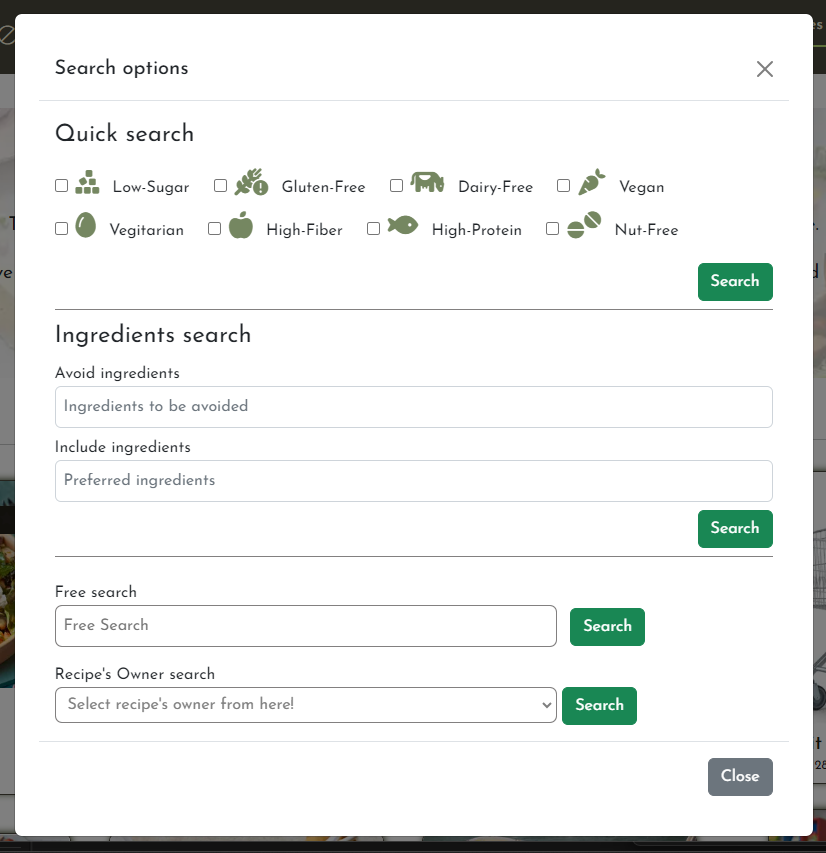
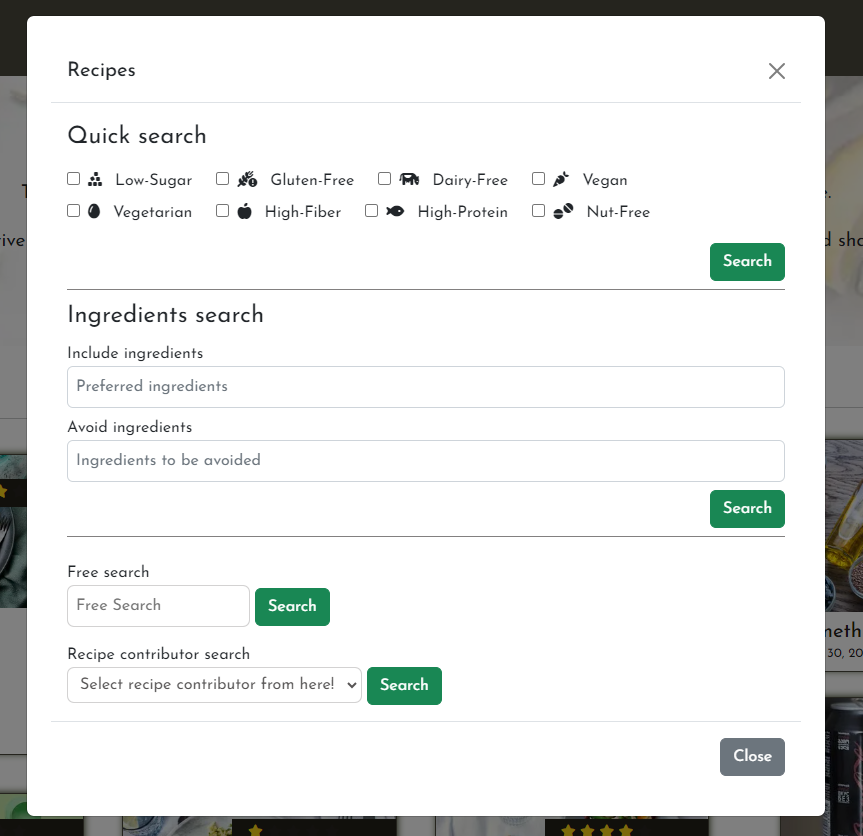
doc: Add Existing Features updates - screenshots and details

diff --git a/templates/includes/header.html b/templates/includes/header.html
@@ -16,23 +16,23 @@
             <!-- Navigation bar -->
             <div class="collapse navbar-collapse" id="navbarNav">
                 <ul class="navbar-nav ms-auto mb-2">
-                    <li class="nav-item">
+                    <li class="nav-item me-2">
                         <a class="nav-link{% if url_name == 'home' %} active" aria-current="page{% endif %}"
                             href="{% url 'home' %}" aria-label="Home (Top-page)" title="Home"><i
                                 class="fa-solid fa-house"></i> Recipes</a>
                     </li>
-                    <li class="nav-item">
+                    <li class="nav-item me-2">
                         <a class="nav-link{% if url_name == 'posts' %} active" aria-current="page{% endif %}"
                             href="{% url 'posts' %}" aria-label="Posts list page" title="Posts"><i
                                 class="fa-solid fa-newspaper"></i> Posts</a>
                     </li>
-                    <li class="nav-item dropdown">
+                    <li class="nav-item dropdown me-2">
                         <a class="nav-link dropdown-toggle" href="#" role="button" data-bs-toggle="dropdown"
                             aria-expanded="false" aria-label="New Create (Recipe or Post)"
                             title="New Create Recipe, Post">
                             <i class="fa-regular fa-square-plus"></i> NEW
                         </a>
-                        <ul class="dropdown-menu">
+                        <ul class="dropdown-menu me-2">
                             <li><a class="dropdown-item{% if url_name == 'add_recipe' %} active"
                                     aria-current="page{% endif %}" href="{% url 'add_recipe' %}"
                                     aria-label="Create Recipe" title="Create Recipe"> Create Recipe</a></li>
@@ -42,19 +42,19 @@
                         </ul>
                     </li>
                     {% if request.user.is_authenticated %}
-                    <li class="nav-item">
+                    <li class="nav-item me-2">
                         <a class="nav-link{% if url_name == 'account_logout' %} active" aria-current="page{% endif %}"
                             href="/accounts/logout" aria-label="Log-out button" title="Log-out"><i
                                 class="fa-solid fa-right-from-bracket"></i>
                             Log-out</a>
                     </li>
                     {% else %}
-                    <li class="nav-item">
+                    <li class="nav-item me-2">
                         <a class="nav-link{% if url_name == 'account_signup' %} active" aria-current="page{% endif %}"
                             href="/accounts/signup" aria-label="Sign-Up button" title="Sign-up"><i
                                 class="fa-solid fa-user-pen"></i> Sign-up</a>
                     </li>
-                    <li class="nav-item">
+                    <li class="nav-item me-2">
                         <a class="nav-link{% if url_name == 'account_login' %} active" aria-current="page{% endif %}"
                             href="/accounts/login" aria-label="Log-in button" title="Log-in"><i
                                 class="fa-solid fa-right-to-bracket"></i>

diff --git a/home/templates/home/index.html b/home/templates/home/index.html
@@ -99,7 +99,7 @@
   <div class="modal-dialog modal-lg">
     <div class="modal-content p-4">
       <div class="modal-header">
-        <h5 class="modal-title">Search options</h5>
+        <h5 class="modal-title">Recipes</h5>
         <button type="button" class="btn-close" data-bs-dismiss="modal" aria-label="Close"></button>
       </div>
       <div class="modal-body">
@@ -170,7 +170,7 @@
   <div class="modal-dialog modal-lg">
     <div class="modal-content p-4">
       <div class="modal-header">
-        <h4 class="modal-title">Post - Search options</h4>
+        <h5 class="modal-title">Posts</h4>
         <button type="button" class="btn-close" data-bs-dismiss="modal" aria-label="Close"></button>
       </div>
       <div class="modal-body">

diff --git a/posts/templates/posts/posts.html b/posts/templates/posts/posts.html
@@ -109,7 +109,7 @@
               placeholder="Include words" aria-label="Include words">
             <label for="avoid-search">Avoid words</label>
             <input id="avoid-search" class="form-control me-2 p-2 mb-2" name="q-avoid" type="search"
-              placeholder="Words to be avoided" aria-label="Words to be avoided">
+              placeholder="Excluded search term e.g. eggs" aria-label="Words to be avoided">
           </fieldset>
           <div class="modal-button pb-2 mb-2">
             <button type="submit" class="btn btn-success" form="words-search">Search</button>

diff --git a/static/css/base.css b/static/css/base.css
@@ -155,10 +155,11 @@ a:active {
 }
 
 #free-word-search,
-#owner-id-search {
+#owner-id-search,
+#post-owner-id-search {
     border-radius: 7px;
-    border: solid 1px var(--star-gray);
-    color: gray;
+    border: solid 1px rgba(170, 168, 168, 0.514);
+    color: rgb(88, 86, 86);
 }
 
 #checkbox-filter i {

diff --git a/staticfiles/css/base.css b/staticfiles/css/base.css
@@ -155,10 +155,11 @@ a:active {
 }
 
 #free-word-search,
-#owner-id-search {
+#owner-id-search,
+#post-owner-id-search {
     border-radius: 7px;
-    border: solid 1px var(--star-gray);
-    color: gray;
+    border: solid 1px rgba(170, 168, 168, 0.514);
+    color: rgb(88, 86, 86);
 }
 
 #checkbox-filter i {

diff --git a/README.md b/README.md
@@ -67,7 +67,7 @@ I hope that these activities will inspire all of us to make better food and life
 ![Database relationship diagram](readme-img/ux-db-diagram.jpg "Database relationship diagram")
 
 #### Wireframes
-This website was originally planned as part of a previous project, but midway through my development my standup teacher advised me that it would be better to make it a standalone project separate from the previous one to avoid confusion. Therefore, I have made some design changes. 
+This website was originally planned as part of a previous project, but midway through my development, my cohort facilitator Lewis advised for me that it would be better to make it a standalone project separate from the previous one to avoid confusion. Therefore, I have made some design & colour changes from this wireframs though I couldn't have time to create another wireframes. 
 
 <details open>
 <summary>For first time visitor - tablet and PC monitor</summary>
@@ -102,45 +102,9 @@ For the site's basic font, I was considering using "Quicksand" for the best read
 
 ## EXISTING FEATURES  
 
-### Top page - Home  
-* Header and navigation - First time visiter  
-![Header and navigation - First time visiter](readme-img/feat-home-header2.png "Header and navigation - First time visiter")   
-* Header and navigation - Authenticated user  
-![Header and navigation - Authenticated user](readme-img/feat-home-header.png "Header and navigation - Authenticated user")   
-
-* Welcome message - First time visiter  
-![ Welcome message - First time visiter](readme-img/feat-home-intro2.png " Welcome message - First time visiter")   
-*  Welcome message - Authenticated user  
-![ Welcome message - Authenticated user](readme-img/feat-home-intro.png " Welcome message - Authenticated user")  
-
-* Home content - Recipes list  
-![ Home content - Recipes list](readme-img/feat-home-content.webp " Home content - Recipes list")   
-
-* Footer  
-![ Footer ](readme-img/feat-home-footer.png " Footer ")  
-
-* Recipes search options modal  
-![ Recipes search options modal ](readme-img/feat-recipesearch.png " Recipes search options modal ")  
-
-### Posts list page  
-* Lead sentense - First time visiter  
-![ Lead sentense - First time visiter](readme-img/feat-posts-intro.webp " Lead sentense - First time visiter")   
-
-* Lead sentense - Authenticated user  
-![ Lead sentense - Authenticated user](readme-img/feat-posts-intro2.webp " Lead sentense - Authenticated user")  
-
-* Posts list - Approved  
-![ Posts list - Approved](readme-img/feat-posts-content1.png " Posts list - Approved")   
-
-* Posts list - Waiting to be approved  
-![ Posts list - Waiting to be approved](readme-img/feat-posts-content2.png " Posts list - Waiting to be approved")  
-
-* Posts search options modal  
-![ Posts search options modal ](readme-img/feat-postssearch.png " Posts search options modal ")  
-
 ### Authentication pages  
 
-* Sign-up  
+* Sign-up - AllAuth default settings and validations are applied   
 ![ Sign-up ](readme-img/feat-a-signup.png " Sign-up ")  
 
 * Log-in  
@@ -149,16 +113,71 @@ For the site's basic font, I was considering using "Quicksand" for the best read
 * Log-out  
 ![ Log-out ](readme-img/feat-a-logout.png " Log-out ")  
 
+### Top page - Home  
+* Header and navigation - Unauthenticated user can see Sign-up and Log-in link  
+![Header and navigation - Unauthenticated user](readme-img/feat-home-header2.png "Header and navigation - First time visiter")   
+* Header and navigation - Authenticated user can see only Log-out link  
+![Header and navigation - Authenticated user](readme-img/feat-home-header.png "Header and navigation - Authenticated user")   
+
+* Welcome message - Unauthenticated user  
+![ Welcome message - Unauthenticated user](readme-img/feat-home-intro2.png " Welcome message - First time visiter")   
+*  Welcome message - Authenticated user can see their name on the message 
+![ Welcome message - Authenticated user](readme-img/feat-home-intro.png " Welcome message - Authenticated user")  
+
+* Home content - A list of Recipes in the main section and A list of Posts are in the article section. We have both search option buttons. Authenticated users can rate other user's recipes, and the average rating score is displayed on the recipe image. 
+![ Home content - Recipes list](readme-img/feat-home-content.webp " Home content - Recipes list")   
+Only Authenticated user can see the + button (Create recipe) beside the list title.   
+![ Home content - Recipes list](readme-img/feat-home-contenta.png " Home content - Recipes list")  
+
+* Footer  
+![ Footer ](readme-img/feat-home-footer.png " Footer ")  
+
+* Recipes search options modal - The main feature of this website is this optional search funstion that can filter by 8 categories and include words and avoid words search and more.  
+![ Recipes search options modal ](readme-img/feat-recipesearch.png " Recipes search options modal ")  
+
+* Posts search options modal -   
+![ Posts search options modal ](readme-img/feat-postssearch.png " Posts search options modal ")  
+
+### Recipe detail page
+* Detail content - A selected recipes' details are displayed. Authenticated users can rate other user's recipes, and the averaged rating score will be displayed. When I was working on this page, I didn't know how to use CBV with POST request, so build with FBV.
+![ Home content - Recipes list](readme-img/feat-detail-content.png " Home content - Recipes list")   
+Only Authenticated user and the recipes' owner can see the "Edit" / "Delete" buttons   
+![ Home content - Recipes list](readme-img/feat-detail-edit-delete-button.png " Home content - Recipes list")  
+The star rating button and comment function, those functions are NOT displyed for unauthenticated users, they can find the links to Sign-up and Log-in   
+![ Home content - Recipes list](readme-img/feat-detail-content-unauth.png " Home content - Recipes list")  
+
+
 ### Recipes CRUD pages
 
-* Create recipe form page  
+* Create recipe page - This page is constructed by CBV (CreateView) and `LoginRequiredMixin` is used for preventing unauthenticated users.
+I choose summernote for user's rich text editor though I found a lot of nested tags and unnecessary tags, those were produced by automatically. For future project, I guess I should research more about better rich text editors. Here I'm using image resizing, setting to 400 px width.
 ![ Create recipe form page ](readme-img/feat-recipe-add.webp " Create recipe form page ")  
 
-* Edit recipe form page  
+* Edit recipe form page - This Edit page has `LoginRequiredMixin, UserPassesTestMixin,` both mixin for preventing other users can access there pages.  
 ![ Edit recipe form page ](readme-img/feat-recipe-edit.png " Edit recipe form page ")   
 
-* Delete recipe confirmation page  
+* Delete recipe confirmation page - This Delete page is same as Edit page, using `LoginRequiredMixin, UserPassesTestMixin,` for security 
 ![ Delete recipe confirmation page ](readme-img/feat-recipe-delete.png " Delete recipe confirmation page ")   
+
+### Posts list page  
+* Lead sentense - Unauthenticated user  
+![ Lead sentense - Unauthenticated user](readme-img/feat-posts-intro.webp " Lead sentense - First time visiter")    
+
+* Lead sentense - Authenticated user can see their name on the message  
+![ Lead sentense - Authenticated user](readme-img/feat-posts-intro2.webp " Lead sentense - Authenticated user")   
+
+* Posts list Approved - These posts are not published until approved. Only authenticatted user can see the + button     
+![ Posts list - Approved](readme-img/feat-posts-content1.png " Posts list - Approved")    
+Only Authenticated user can see the + button (Create post) beside the list title.    
+![ Posts list - Approved](readme-img/feat-posts-content1a.png " Posts list - Approved")    
+
+* Posts list Waiting to be approved - Only Aithenticated and the post author can see thier unapproved posts here. The font colours are faded to imply not approved 
+![ Posts list - Waiting to be approved](readme-img/feat-posts-content2.png " Posts list - Waiting to be approved")  
+
+### Posts detail page
+Post detail content - A selected post details are displayed. Authenticated users can comment on the other user's recipes, When I was working on this page, I didn't know how to use CBV with POST request, so build with FBV.
+* Create post form page  
+![ Create post form page ](readme-img/feat-posts-add.png " Create post form page ")  
 
 ### Posts CRUD pages
 
@@ -173,7 +192,7 @@ For the site's basic font, I was considering using "Quicksand" for the best read
 
 ### Other parts
 
-* Star rating  
+* Star rating - Only authenticated users can rate other members recipes. Each ratings are averaged using the aggregate() clouse.  In recipe detail page, left bottom part of the page 
 ![ Star rating ](readme-img/feat-starrating.webp " Star rating ")  
 
 * Message  
@@ -202,7 +221,7 @@ Any open issues can be tracked [here](https://github.com/users/AtsukoCoffey/proj
 * Font Awesome used for all the icons in this project  
 * Google Fonts used for all the fonts used in this project and to compare potential fonts.  
 
-* tinipng - Smart WebP, PNG and JPEG Compression for Faster Websites used for compress all the image files
+* [tinipng](https://tinypng.com/ "tinipng") - Smart WebP, PNG and JPEG Compression for Faster Websites
 * Am I Responsive? used for creating responsivity example image
 * [favicon.io](https://favicon.io/favicon-generator/ "favicon.io") used for creating an original favicon icon
 * [coolors](https://coolors.co/232018-4b483d-758761-bfe077-f1eddb "coolors") used for the formating of colour scheme
@@ -210,13 +229,15 @@ Any open issues can be tracked [here](https://github.com/users/AtsukoCoffey/proj
 <a id="testing"></a>
 
 # TESTING
-> I performed most of the testing myself and had some support from family members with different mobile devices.
+I performed most of the testing myself and had some support from family members with different mobile devices.
 
 ## TESTING
 For testing I created `README-TEST.md` file
 [Tests- README-TEST](/README-TEST.md "Tests- README-TEST")
 
 ## BUGS
+I had a lot of bugs and difficulties through the developement procedure. However can't write everything. 
+The bugs that I mention here are something I felt clicked. 
 
 ### Pagination for the query data  
 When I was working at the option search, the query result recipes displayed correctly, however pagiination links are resetting the
@@ -244,7 +265,6 @@ When I was working on `get_context_data` I was straggling to set the kwargs "com
 
 - Solution -  And it worked. `slug=self.kwargs["slug"]`
 
-I still have a lot of bug reports but I don't have time to record everything. 
 
 ### Another 500 error for sign up form
 This bug was found at the middle of the end-point reveiw. I had different 500 server error that took a long time to solve it so I broke out into my cold sweat. However the mentor gave me a great advice that this error is not coming from the logic error. So possibly from template or soemthing similar things. After the meeting, the DEBUG explained the issue was caused from the AllAuth's password validation. Then now I remember that I just did all the PEP8 linting and even settings.py.    
@@ -252,7 +272,6 @@ This bug was found at the middle of the end-point reveiw. I had different 500 se
 - Solution -  Long lines generated by the system can be reverted and left as it was before.
 
 **There were more than three bug reports, but I am writing only the ones that I clicked on.**
-
 
 ### Unfixed Bugs
 

diff --git a/README-TEST.md b/README-TEST.md
@@ -154,6 +154,7 @@ Defensive programming was manually tested with the below user acceptance testing
 | | Hover all the link objects | Response changeing colour except star rating | Pass | |
 | | Click on pagination links (default) | Redirection to next/previous page order by descending dates | Pass | |
 | | Click on pagination links (search results) | Redirection to next/previous page of results | Pass | |
+| Authenticated user only | Click on + "Create recipe" button | Redirection to Create Recipe page | Pass | |
 
 | Home Page | User Action | Expected Result | Pass/Fail | Comments |
 | --- | --- | --- | --- | --- |
@@ -261,6 +262,7 @@ Defensive programming was manually tested with the below user acceptance testing
 | | Click on pagination links (default) | Redirection to next/previous page order by descending dates | Pass | |
 | | Click on pagination links (search results) | Redirection to next/previous page of results | Pass | |
 | Authenticated and owner only | Click on one of the unauthorised recipes | Redirection to the recipes' detail page | Pass | |
+| Authenticated user only | Click on + "Create post" button | Redirection to Create Post page | Pass | |
 
 | Posts detail's Page | User Action | Expected Result | Pass/Fail | Comments |
 | --- | --- | --- | --- | --- |
